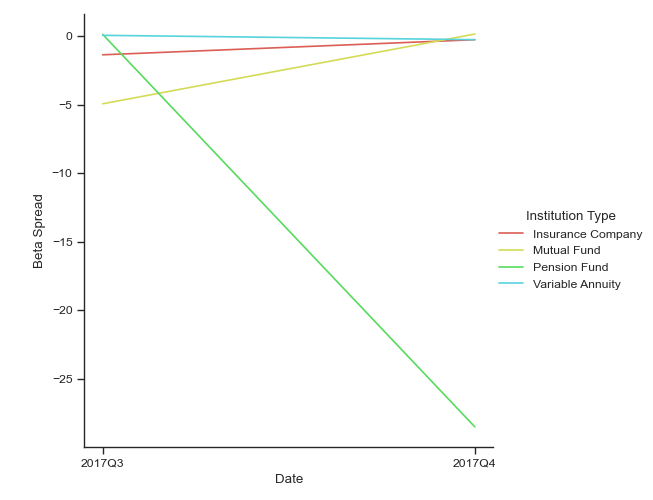
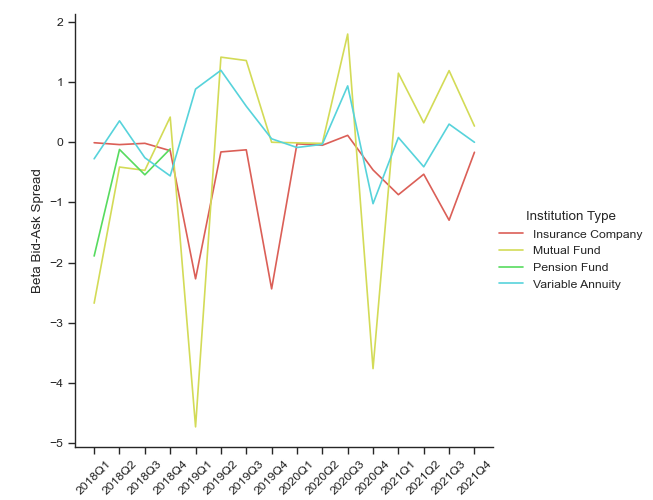
post final run

diff --git a/demand_system_bonds.py b/demand_system_bonds.py
@@ -650,26 +650,26 @@ def fit_inv_date_L(df_inv_date: pd.DataFrame, characteristics: list, params: lis
     start_params = np.zeros(len(params))
     w0inv = np.dot(instrument.T, instrument) / n
 
-    if len(exog) == 1:
+    if len(exog) <= 1:
         print('One valid holding')
         return None
 
-    # try:
-    model = gmm.NonlinearIVGMM(
-        endog=endog,
-        exog=exog,
-        instrument=instrument,
-        func=momcond_L)
-    result = model.fit(
-        start_params=start_params,
-        maxiter=0,
-        inv_weights=w0inv)
-    # log_results(result, params)
-    return result
+    try:
+        model = gmm.NonlinearIVGMM(
+            endog=endog,
+            exog=exog,
+            instrument=instrument,
+            func=momcond_L)
+        result = model.fit(
+            start_params=start_params,
+            maxiter=0,
+            inv_weights=w0inv)
+        # log_results(result, params)
+        return result
 
-    # except np.linalg.LinAlgError:
-    #     print('Linear Algebra Error')
-    #     return None
+    except np.linalg.LinAlgError:
+        print('Linear Algebra Error')
+        return None
 
 
 def estimate_model_L(df_weights: pd.DataFrame, characteristics: list, params: list, min_n_holding: int) -> pd.DataFrame:
@@ -996,6 +996,7 @@ def typecode_share_counts(df_figure: pd.DataFrame, figure_path: str):
                     kind='line')
     g.set_axis_labels('Date', 'Number of Investors')
     g.despine()
+    plt.xticks(rotation=45)
     plt.savefig(os.path.join(figure_path, f'typecode_count.png'))
 
     g = sns.relplot(data=df_type_share,
@@ -1005,6 +1006,7 @@ def typecode_share_counts(df_figure: pd.DataFrame, figure_path: str):
                     kind='line')
     g.set_axis_labels('Date', 'Share of AUM')
     g.despine()
+    plt.xticks(rotation=45)
     plt.savefig(os.path.join(figure_path, f'typecode_share.png'))
 
     return df_figure
@@ -1027,6 +1029,7 @@ def check_moment_condition(df_figures: pd.DataFrame, min_n_holding: int):
     )
     g.set_axis_labels('Log Latent Demand', 'Frequency')
     g.despine()
+    plt.xticks(rotation=45)
     plt.savefig(os.path.join(figure_path, f'moment_condition.png'))
 
     return df_figures
@@ -1046,7 +1049,7 @@ def critical_value_test(df_figures: pd.DataFrame, characteristics: list, min_n_h
              .apply(iv_reg)
              .to_frame('t_stat')
              .groupby('date')
-             .median()
+             .max()
              .reset_index())
 
     g = sns.relplot(data=df_iv,
@@ -1056,6 +1059,7 @@ def critical_value_test(df_figures: pd.DataFrame, characteristics: list, min_n_h
     g.refline(y=4.05, linestyle='--')
     g.set_axis_labels('Date', 'First stage t-statistic')
     g.despine()
+    plt.xticks(rotation=45)
     plt.savefig(os.path.join(figure_path, f'instrument_validity.png'))
 
     return df_figures
@@ -1070,11 +1074,10 @@ def test_index_fund(df_figures: pd.DataFrame, characteristics: list, params: lis
 
     df_index_fund_model = (df_index_fund
                            .set_index(['inv_id', 'date'])
-                           .assign(
-        gmm_result=lambda x: x.groupby(['inv_id', 'date']).apply(lambda y: fit_inv_date_L(y, characteristics, params)))
+                           .assign(gmm_result=lambda x: x.groupby(['inv_id', 'date']).apply(lambda y: fit_inv_date_L(y, characteristics, params)))
                            .reset_index())
     df_index_fund_result = calc_latent_demand(df_index_fund_model, characteristics, params)
-    cols = params + ['latent_demand']
+    cols = params
     for param in cols:
         g = sns.relplot(data=df_index_fund_result,
                         x='date',
@@ -1083,6 +1086,7 @@ def test_index_fund(df_figures: pd.DataFrame, characteristics: list, params: lis
         g.set_axis_labels('Date', f'{get_readable_param(param)}')
         g.despine()
         plt.ylim(-1, 1)
+        plt.xticks(rotation=45)
         plt.savefig(os.path.join(figure_path, f'index_fund_{param}.png'))
 
     return df_figures
@@ -1106,6 +1110,7 @@ def graph_type_params(df_figures: pd.DataFrame, params: list, figure_path: str):
         g.set_axis_labels('Date', f'{get_readable_param(param)}')
         g.legend.set_title('Institution Type')
         g.despine()
+        plt.xticks(rotation=45)
         plt.savefig(os.path.join(figure_path, f'{param}.png'))
 
     return df_figures
@@ -1114,15 +1119,13 @@ def graph_type_params(df_figures: pd.DataFrame, params: list, figure_path: str):
 def graph_std_latent_demand(df_figures: pd.DataFrame, figure_path: str):
     df_ld = (df_figures
              .groupby(['inv_id', 'date'])
-             .agg({
-        'latent_demand': 'std',
-        'aum': 'last',
-        'typecode': 'last'})
+             .agg({'latent_demand': 'std',
+                   'aum': 'last',
+                   'typecode': 'last'})
              .assign(latent_demand=lambda x: x['latent_demand'] * x['aum'])
              .groupby(['typecode', 'date'])
-             .agg({
-        'latent_demand': 'mean',
-        'aum': 'sum'})
+             .agg({'latent_demand': 'mean',
+                   'aum': 'sum'})
              .assign(latent_demand=lambda x: x['latent_demand'] / x['aum']))
 
     g = sns.relplot(data=df_ld,
@@ -1133,6 +1136,7 @@ def graph_std_latent_demand(df_figures: pd.DataFrame, figure_path: str):
     g.set_axis_labels('Date', 'Standard Deviation of Latent Demand')
     g.legend.set_title('Institution Type')
     g.despine()
+    plt.xticks(rotation=45)
     plt.savefig(os.path.join(figure_path, f'std_latent_demand.png'))
 
     return df_figures
@@ -1152,7 +1156,15 @@ def get_param_cols(cols: list) -> list:
 
 
 def get_readable_param(name: str) -> str:
-    return name.replace('_', ' ').title()
+    param_dict = {'beta_ytm': 'Beta Yield',
+                  'beta_amtout': 'Beta Amount Oustanding',
+                  'beta_coupon': 'Beta Coupon',
+                  'beta_credit_rating': 'Beta Credit Rating',
+                  'beta_const': 'Beta Outside Asset',
+                  'beta_spread': 'Beta Bid-Ask Spread',
+                  'beta_t_maturity': 'Beta Time to Maturity'}
+
+    return param_dict[name]
 
 
 def get_readable_typecode(typecode: str):
@@ -1261,12 +1273,11 @@ def get_rating_number(rating_class: str):
                   'C',
                   'C-',
                   'D']
-    dict_rating = {lst_rating[i]: i for i in range(len(lst_rating))}
+    dict_rating = {lst_rating[i]: float(i) for i in range(len(lst_rating))}
     dict_rating['NR'] = np.nan
     return dict_rating[rating_class]
 
 
-# %%
 # Log
 
 def log_quarter(q: pd.Period):
@@ -1506,8 +1517,8 @@ figure_path = 'figures/'
 os.makedirs(output_path, exist_ok=True)
 os.makedirs(figure_path, exist_ok=True)
 
-start_date = pd.Period('2017Q3')
-end_date = pd.Period('2017Q4')
+start_date = pd.Period('2018Q1')
+end_date = pd.Period('2021Q4')
 
 characteristics = ['coupon',
                    'amtout',
